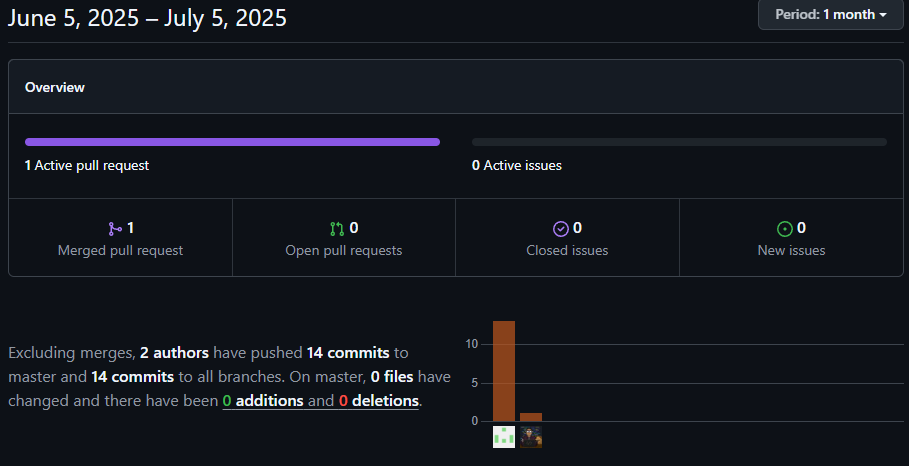
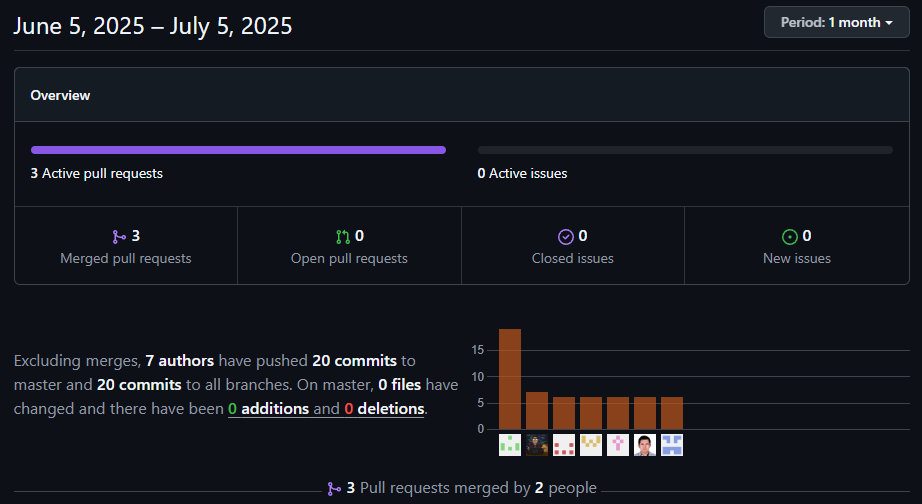
docs: update Development Evidence

diff --git a/README.md b/README.md
@@ -5490,6 +5490,12 @@ Los avances específicos son:
 
 |       Repository          |           Branch           |                 Commit Id                |                                                            Commit Message                                                       | Commit Message Body | Commited on (Date) |
 | :-----------------------: | :------------------------: | :--------------------------------------: | :------------------------------------------------------------------------------------------------------------------------------ | :------------------ | :----------------: |
+| smartparking-edge-server  |       feature/device       | c873f10cb21b973e34d582769d7f2d6c07bec37b | feat: add getmac package for MAC address retrieval in device functionality                                                      |                     |     05/06/2025     |
+| smartparking-edge-server  |       feature/device       | 00cbf385f0c0ab4f831fb0f42cdd9582e30fde3b | feat: enhance DeviceService to integrate EdgeServer functionality and update MQTT topic handling                                |                     |     05/06/2025     |
+| smartparking-edge-server  |       feature/device       | 0849b6cb9fa17b8f86b36ed56af05d9e3656c638 | feat: update EdgeServer and ParkingSpot repositories to use MAC address and improve server retrieval logic                      |                     |     05/06/2025     |
+| smartparking-edge-server  |       feature/device       | 491194c872f81296b813c18114419e5dd2c4c66e | feat: implement MQTT client for device and cloud communication with provisioning updates                                        |                     |     05/06/2025     |
+| smartparking-edge-server  |       feature/device       | 432161b49dff3a90cec4b0f1995f71adeb0eccd9 | feat: enhance MQTT integration with cloud and device clients                                                                    |                     |     05/06/2025     |
+| smartparking-edge-server  |       feature/device       | e56a0969acc4dccc8bb5de39beb9a0a6fb0a9653 | feat: replace ip_address with mac_address in EdgeServer and model definitions                                                   |                     |     05/06/2025     |
 |   smartparking-frontend   |           develop          | e18ec8297f210f85b55800b2242ab7148649bfad | feat: update vehicle plate input mask                                                                                           |                     |     05/07/2025     | 
 |   smartparking-backend    |           develop          | 103071074a64f8fb59d7a9327d0275598072b7b3 | feat(Notifications): add documentation for endpoints of bounded context Notifications                                           |                     |     03/07/2025     |
 |   smartparking-backend    |           develop          | 2de1ee66cba8b9d61e5ccd80eab8d9a379b250a3 | chore: add JSON configuration file to .gitignore                                                                                |                     |     01/07/2025     |
